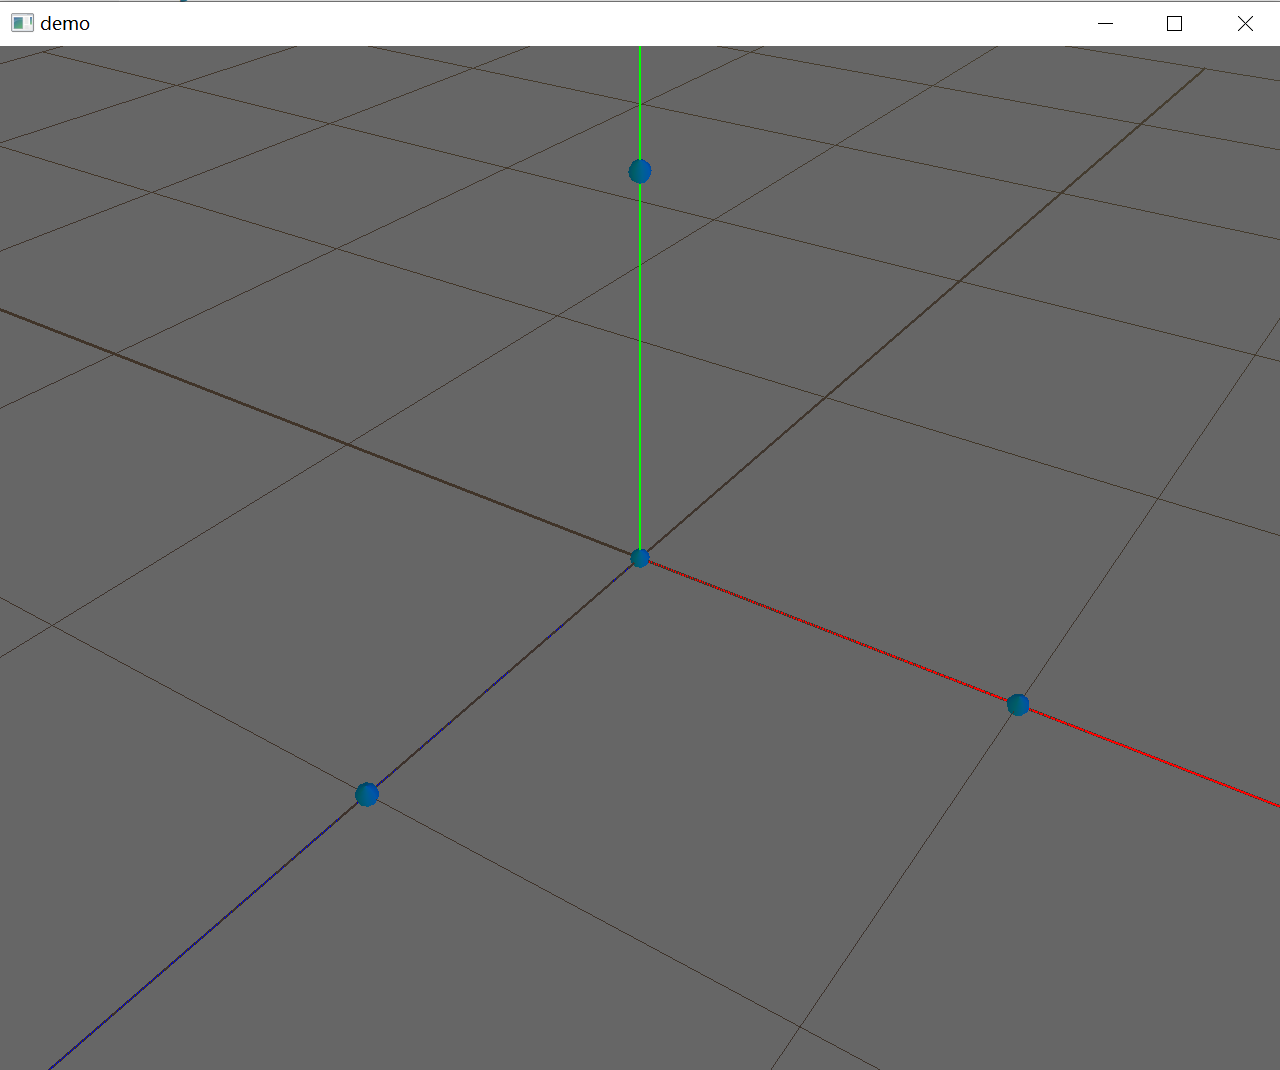
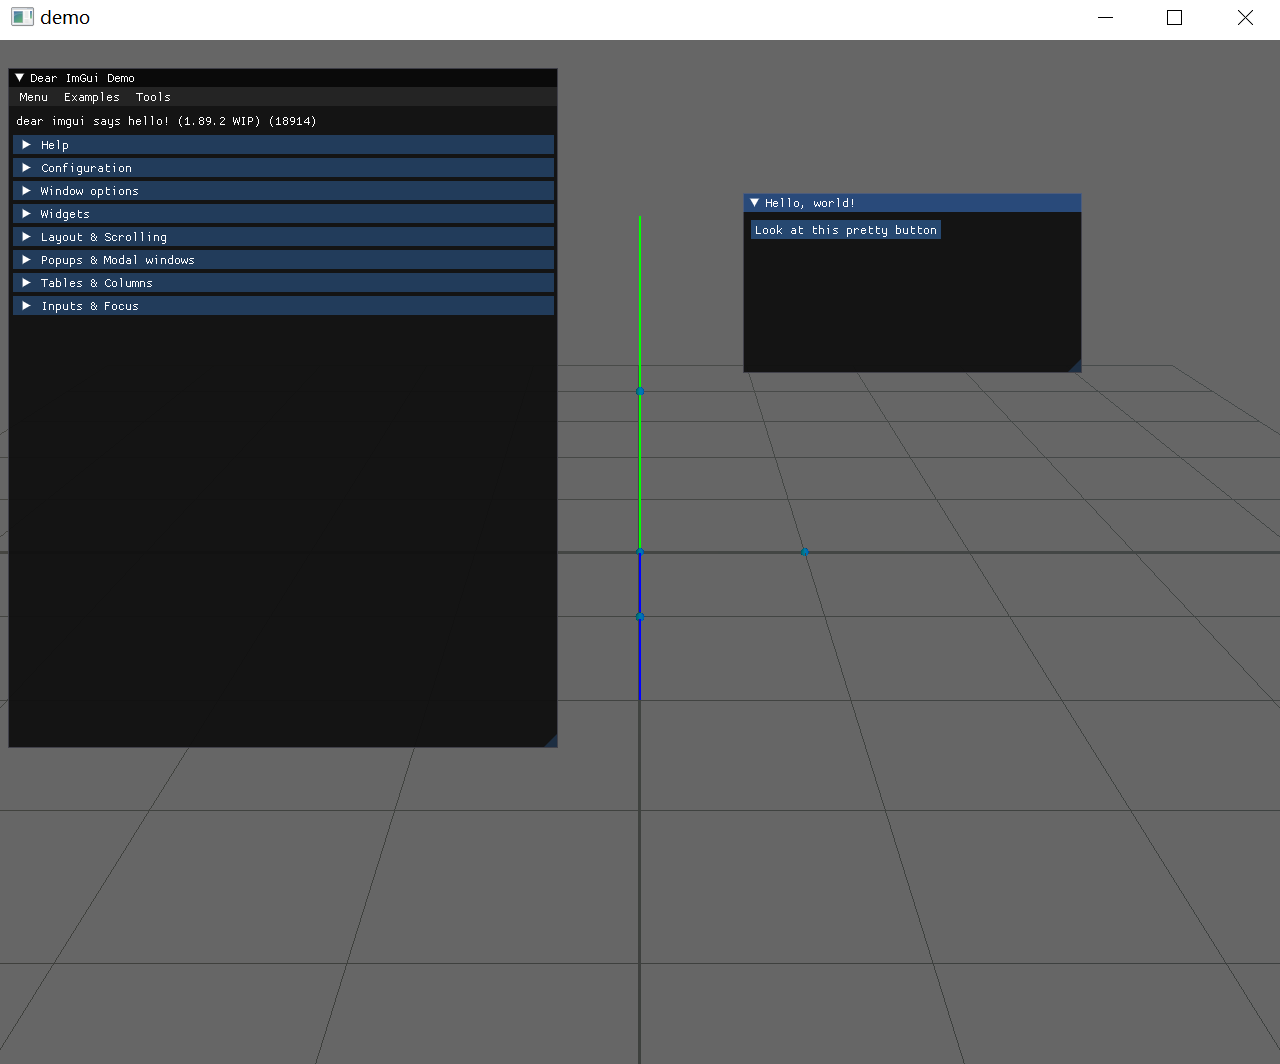
[new] Add ImguiEaseUse

diff --git a/extern/imgui/examples/example_glfw_opengl3/main.cpp b/extern/imgui/examples/example_glfw_opengl3/main.cpp
@@ -1,164 +1,49 @@
-// Dear ImGui: standalone example application for GLFW + OpenGL 3, using programmable pipeline
-// (GLFW is a cross-platform general purpose library for handling windows, inputs, OpenGL/Vulkan/Metal graphics context creation, etc.)
-// If you are new to Dear ImGui, read documentation from the docs/ folder + read the top of imgui.cpp.
-// Read online: https://github.com/ocornut/imgui/tree/master/docs
-
 #include "imgui.h"
 #include "imgui_impl_glfw.h"
 #include "imgui_impl_opengl3.h"
 #include <stdio.h>
-#define GL_SILENCE_DEPRECATION
-#if defined(IMGUI_IMPL_OPENGL_ES2)
-#include <GLES2/gl2.h>
-#endif
 #include <GLFW/glfw3.h> // Will drag system OpenGL headers
 
-// [Win32] Our example includes a copy of glfw3.lib pre-compiled with VS2010 to maximize ease of testing and compatibility with old VS compilers.
-// To link with VS2010-era libraries, VS2015+ requires linking with legacy_stdio_definitions.lib, which we do using this pragma.
-// Your own project should not be affected, as you are likely to link with a newer binary of GLFW that is adequate for your version of Visual Studio.
-#if defined(_MSC_VER) && (_MSC_VER >= 1900) && !defined(IMGUI_DISABLE_WIN32_FUNCTIONS)
-#pragma comment(lib, "legacy_stdio_definitions")
-#endif
-
-static void glfw_error_callback(int error, const char* description)
-{
-    fprintf(stderr, "Glfw Error %d: %s\n", error, description);
-}
 
 int main(int, char**)
 {
     // Setup window
-    glfwSetErrorCallback(glfw_error_callback);
     if (!glfwInit())
         return 1;
 
-    // Decide GL+GLSL versions
-#if defined(IMGUI_IMPL_OPENGL_ES2)
-    // GL ES 2.0 + GLSL 100
-    const char* glsl_version = "#version 100";
-    glfwWindowHint(GLFW_CONTEXT_VERSION_MAJOR, 2);
-    glfwWindowHint(GLFW_CONTEXT_VERSION_MINOR, 0);
-    glfwWindowHint(GLFW_CLIENT_API, GLFW_OPENGL_ES_API);
-#elif defined(__APPLE__)
-    // GL 3.2 + GLSL 150
-    const char* glsl_version = "#version 150";
-    glfwWindowHint(GLFW_CONTEXT_VERSION_MAJOR, 3);
-    glfwWindowHint(GLFW_CONTEXT_VERSION_MINOR, 2);
-    glfwWindowHint(GLFW_OPENGL_PROFILE, GLFW_OPENGL_CORE_PROFILE);  // 3.2+ only
-    glfwWindowHint(GLFW_OPENGL_FORWARD_COMPAT, GL_TRUE);            // Required on Mac
-#else
-    // GL 3.0 + GLSL 130
-    const char* glsl_version = "#version 130";
-    glfwWindowHint(GLFW_CONTEXT_VERSION_MAJOR, 3);
-    glfwWindowHint(GLFW_CONTEXT_VERSION_MINOR, 0);
-    //glfwWindowHint(GLFW_OPENGL_PROFILE, GLFW_OPENGL_CORE_PROFILE);  // 3.2+ only
-    //glfwWindowHint(GLFW_OPENGL_FORWARD_COMPAT, GL_TRUE);            // 3.0+ only
-#endif
-
     // Create window with graphics context
     GLFWwindow* window = glfwCreateWindow(1280, 720, "Dear ImGui GLFW+OpenGL3 example", NULL, NULL);
-    if (window == NULL)
-        return 1;
+
     glfwMakeContextCurrent(window);
     glfwSwapInterval(1); // Enable vsync
 
     // Setup Dear ImGui context
     IMGUI_CHECKVERSION();
     ImGui::CreateContext();
-    ImGuiIO& io = ImGui::GetIO(); (void)io;
-    //io.ConfigFlags |= ImGuiConfigFlags_NavEnableKeyboard;     // Enable Keyboard Controls
-    //io.ConfigFlags |= ImGuiConfigFlags_NavEnableGamepad;      // Enable Gamepad Controls
-
-    // Setup Dear ImGui style
-    ImGui::StyleColorsDark();
-    //ImGui::StyleColorsLight();
 
     // Setup Platform/Renderer backends
     ImGui_ImplGlfw_InitForOpenGL(window, true);
-    ImGui_ImplOpenGL3_Init(glsl_version);
-
-    // Load Fonts
-    // - If no fonts are loaded, dear imgui will use the default font. You can also load multiple fonts and use ImGui::PushFont()/PopFont() to select them.
-    // - AddFontFromFileTTF() will return the ImFont* so you can store it if you need to select the font among multiple.
-    // - If the file cannot be loaded, the function will return NULL. Please handle those errors in your application (e.g. use an assertion, or display an error and quit).
-    // - The fonts will be rasterized at a given size (w/ oversampling) and stored into a texture when calling ImFontAtlas::Build()/GetTexDataAsXXXX(), which ImGui_ImplXXXX_NewFrame below will call.
-    // - Use '#define IMGUI_ENABLE_FREETYPE' in your imconfig file to use Freetype for higher quality font rendering.
-    // - Read 'docs/FONTS.md' for more instructions and details.
-    // - Remember that in C/C++ if you want to include a backslash \ in a string literal you need to write a double backslash \\ !
-    //io.Fonts->AddFontDefault();
-    //io.Fonts->AddFontFromFileTTF("c:\\Windows\\Fonts\\segoeui.ttf", 18.0f);
-    //io.Fonts->AddFontFromFileTTF("../../misc/fonts/DroidSans.ttf", 16.0f);
-    //io.Fonts->AddFontFromFileTTF("../../misc/fonts/Roboto-Medium.ttf", 16.0f);
-    //io.Fonts->AddFontFromFileTTF("../../misc/fonts/Cousine-Regular.ttf", 15.0f);
-    //ImFont* font = io.Fonts->AddFontFromFileTTF("c:\\Windows\\Fonts\\ArialUni.ttf", 18.0f, NULL, io.Fonts->GetGlyphRangesJapanese());
-    //IM_ASSERT(font != NULL);
-
-    // Our state
-    bool show_demo_window = true;
-    bool show_another_window = false;
-    ImVec4 clear_color = ImVec4(0.45f, 0.55f, 0.60f, 1.00f);
+    ImGui_ImplOpenGL3_Init();
 
     // Main loop
     while (!glfwWindowShouldClose(window))
     {
-        // Poll and handle events (inputs, window resize, etc.)
-        // You can read the io.WantCaptureMouse, io.WantCaptureKeyboard flags to tell if dear imgui wants to use your inputs.
-        // - When io.WantCaptureMouse is true, do not dispatch mouse input data to your main application, or clear/overwrite your copy of the mouse data.
-        // - When io.WantCaptureKeyboard is true, do not dispatch keyboard input data to your main application, or clear/overwrite your copy of the keyboard data.
-        // Generally you may always pass all inputs to dear imgui, and hide them from your application based on those two flags.
-        glfwPollEvents();
 
+        glfwPollEvents();
         // Start the Dear ImGui frame
         ImGui_ImplOpenGL3_NewFrame();
         ImGui_ImplGlfw_NewFrame();
         ImGui::NewFrame();
-
-        // 1. Show the big demo window (Most of the sample code is in ImGui::ShowDemoWindow()! You can browse its code to learn more about Dear ImGui!).
-        if (show_demo_window)
-            ImGui::ShowDemoWindow(&show_demo_window);
-
-        // 2. Show a simple window that we create ourselves. We use a Begin/End pair to create a named window.
-        {
-            static float f = 0.0f;
-            static int counter = 0;
-
-            ImGui::Begin("Hello, world!");                          // Create a window called "Hello, world!" and append into it.
-
-            ImGui::Text("This is some useful text.");               // Display some text (you can use a format strings too)
-            ImGui::Checkbox("Demo Window", &show_demo_window);      // Edit bools storing our window open/close state
-            ImGui::Checkbox("Another Window", &show_another_window);
-
-            ImGui::SliderFloat("float", &f, 0.0f, 1.0f);            // Edit 1 float using a slider from 0.0f to 1.0f
-            ImGui::ColorEdit3("clear color", (float*)&clear_color); // Edit 3 floats representing a color
-
-            if (ImGui::Button("Button"))                            // Buttons return true when clicked (most widgets return true when edited/activated)
-                counter++;
-            ImGui::SameLine();
-            ImGui::Text("counter = %d", counter);
-
-            ImGui::Text("Application average %.3f ms/frame (%.1f FPS)", 1000.0f / ImGui::GetIO().Framerate, ImGui::GetIO().Framerate);
-            ImGui::End();
-        }
-
-        // 3. Show another simple window.
-        if (show_another_window)
-        {
-            ImGui::Begin("Another Window", &show_another_window);   // Pass a pointer to our bool variable (the window will have a closing button that will clear the bool when clicked)
-            ImGui::Text("Hello from another window!");
-            if (ImGui::Button("Close Me"))
-                show_another_window = false;
-            ImGui::End();
-        }
-
-        // Rendering
+        ImGui::ShowDemoWindow();
         ImGui::Render();
-        int display_w, display_h;
+        
+        //在viewport()
+        int display_w, display_h; 
         glfwGetFramebufferSize(window, &display_w, &display_h);
         glViewport(0, 0, display_w, display_h);
-        glClearColor(clear_color.x * clear_color.w, clear_color.y * clear_color.w, clear_color.z * clear_color.w, clear_color.w);
         glClear(GL_COLOR_BUFFER_BIT);
-        ImGui_ImplOpenGL3_RenderDrawData(ImGui::GetDrawData());
 
+        ImGui_ImplOpenGL3_RenderDrawData(ImGui::GetDrawData());
         glfwSwapBuffers(window);
     }
 
@@ -169,6 +54,5 @@ int main(int, char**)
 
     glfwDestroyWindow(window);
     glfwTerminate();
-
     return 0;
 }

diff --git a/src/Visualization/ImguiEasyUse.h b/src/Visualization/ImguiEasyUse.h
@@ -1,0 +1,49 @@
+#include "imgui.h"
+#include "imgui_impl_glfw.h"
+#include "imgui_impl_opengl3.h"
+
+/// @brief A easy-to-use wrapper for ImGui.
+/// @note You should call init() before render loop, render() in render loop, cleanup() after render loop.
+/// Write whatever you want to extra render in renderThings(). See `void MiniGL::mainLoop()` for example.
+class ImguiEasyUse
+{
+public:
+	// before render loop
+	static void init(GLFWwindow* window)
+	{
+		// Setup Dear ImGui context
+		IMGUI_CHECKVERSION();
+		ImGui::CreateContext();
+
+		// Setup Platform/Renderer backends
+		ImGui_ImplGlfw_InitForOpenGL(window, true);
+		ImGui_ImplOpenGL3_Init();
+	}
+
+	// in render loop(before glfwSwapBuffers and after draw other elements)
+	static void render()
+	{
+		ImGui_ImplOpenGL3_NewFrame();
+		ImGui_ImplGlfw_NewFrame();
+		ImGui::NewFrame();
+		renderThings();
+		ImGui::Render();
+		ImGui_ImplOpenGL3_RenderDrawData(ImGui::GetDrawData());
+	}
+
+	static void renderThings()
+	{
+		ImGui::ShowDemoWindow();
+		ImGui::Begin("Hello, world!");
+		ImGui::Button("Look at this pretty button");
+		ImGui::End();
+	}
+
+	// after render loop(before glfwDestroyWindow)
+	static void cleanup()
+	{
+		ImGui_ImplOpenGL3_Shutdown();
+		ImGui_ImplGlfw_Shutdown();
+		ImGui::DestroyContext();
+	}
+};

diff --git a/src/Visualization/MiniGL.cpp b/src/Visualization/MiniGL.cpp
@@ -24,6 +24,8 @@
 #include "math.h"
 #include <iostream>
 
+#include "ImguiEasyUse.h"
+
 
 float MiniGL::fovy = 45;
 float MiniGL::znear = 0.5f;
@@ -1007,6 +1009,8 @@ void MiniGL::error_callback(int error, const char* description)
 
 void MiniGL::mainLoop()
 {
+	ImguiEasyUse::init(m_glfw_window);
+
 	while (!glfwWindowShouldClose(m_glfw_window))
 	{
 		// if (idlefunc != nullptr)
@@ -1024,6 +1028,8 @@ void MiniGL::mainLoop()
 
 			if (scenefunc != nullptr)
 				scenefunc();
+			
+			ImguiEasyUse::render();
 
 			if (m_vsync)
 				glfwSwapBuffers(m_glfw_window);
@@ -1035,6 +1041,8 @@ void MiniGL::mainLoop()
 
 	if (destroyfunc != nullptr)
 		destroyfunc();
+
+	ImguiEasyUse::cleanup();
 
 	glfwDestroyWindow(m_glfw_window);
 

diff --git a/README.md b/README.md
@@ -8,3 +8,8 @@
 在windows平台下VS2022中可正常运行。编译系统基于CMake。
 
 ![image](img/demo.png)
+
+
+
+## 说明
+1. ImguiEaseUse: 对imgui的简单的封装。在render loop前调用`ImguiEasyUse::init()`, 在render loop后调用`ImguiEasyUse::cleanup()`, 在render loop中调用`ImguiEasyUse::render()`。在renderThings中扩充自己的imgui控件。  
